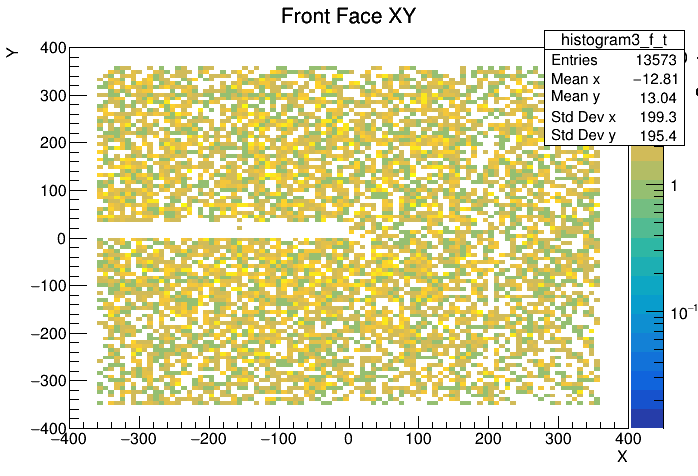
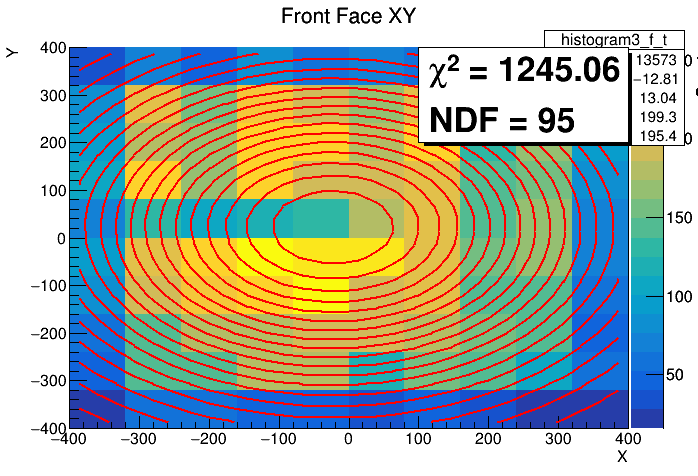
working histograms with the time cut and all data for the front face. They also all have gaussian fits and chi^2/degree of freedom calculations.

diff --git a/CRT_Dataset2/AllDataTimeCut.C b/CRT_Dataset2/AllDataTimeCut.C
@@ -4,14 +4,113 @@
 #include "TH2F.h"
 #include "TCanvas.h"
 #include <iostream>
+#include "TF1.h"
+#include <vector>
+#include <cmath>
+#include <numeric>
+#include <algorithm>
+#include "TPaveText.h"
+#include "TF2.h"
 
+
+double gaussian(double *x, double *par) {
+	double arg = (x[0] - par[1]) / par[2];
+    	return par[0] * exp(-0.5 * arg * arg);
+}
+
+double gaussian2D(double *x, double *par) {
+	double argX = (x[0] - par[1]) / par[2];
+    	double argY = (x[1] - par[3]) / par[4];
+    	return par[0] * exp(-0.5 * (argX * argX + argY * argY));
+}
+
+
+double calculate_mean(const std::vector<double>& data) {
+	return std::accumulate(data.begin(), data.end(), 0.0) / data.size();
+}
+double calculate_stddev(const std::vector<double>& data, double mean) {
+	double sum = 0.0;
+    	for (double value : data) {
+        	sum += (value - mean) * (value - mean);
+    	}
+    	return sqrt(sum / data.size());
+}
+
+void fit_gaussian1D(TH1F* histogram) {
+	int n_bins = histogram->GetNbinsX();
+    	std::vector<double> data;
+    	for (int i = 1; i <= n_bins; ++i) {
+        	int bin_count = histogram->GetBinContent(i);
+        	double bin_center = histogram->GetBinCenter(i);
+        	for (int j = 0; j < bin_count; ++j) {
+            		data.push_back(bin_center);
+        	}
+    	}	
+	double mean = calculate_mean(data);
+    	double stddev = calculate_stddev(data, mean);
+
+    	TF1 *fit_func = new TF1("fit_func", gaussian, histogram->GetXaxis()->GetXmin(), histogram->GetXaxis()->GetXmax(), 3);
+    	fit_func->SetParameters(histogram->GetMaximum(), mean, stddev);
+    	histogram->Fit(fit_func, "R");
+	
+	double chi2 = fit_func->GetChisquare();
+    	int ndf = fit_func->GetNDF();
+
+	TPaveText *pt = new TPaveText(0.6, 0.7, 0.9, 0.9, "NDC");
+    	pt->SetFillColor(0);
+    	pt->SetTextAlign(12);
+    	pt->AddText(Form("#chi^{2} = %.2f", chi2));
+    	pt->AddText(Form("NDF = %d", ndf));
+    	pt->Draw();
+
+    	histogram->GetListOfFunctions()->Add(pt);
+}
+
+void fit_gaussian2D(TH2F* histogram) {
+	int n_binsX = histogram->GetNbinsX();
+    	int n_binsY = histogram->GetNbinsY();
+    	std::vector<double> dataX;
+    	std::vector<double> dataY;
+    	for (int i = 1; i <= n_binsX; ++i) {
+        	for (int j = 1; j <= n_binsY; ++j) {
+            		int bin_count = histogram->GetBinContent(i, j);
+            		double bin_centerX = histogram->GetXaxis()->GetBinCenter(i);
+            		double bin_centerY = histogram->GetYaxis()->GetBinCenter(j);
+            		for (int k = 0; k < bin_count; ++k) {
+                		dataX.push_back(bin_centerX);
+                		dataY.push_back(bin_centerY);
+            		}
+        	}
+    	}
+
+	double meanX = calculate_mean(dataX);
+    	double meanY = calculate_mean(dataY);
+    	double stddevX = calculate_stddev(dataX, meanX);
+    	double stddevY = calculate_stddev(dataY, meanY);
+
+    	TF2 *fit_func = new TF2("fit_func", gaussian2D, histogram->GetXaxis()->GetXmin(), histogram->GetXaxis()->GetXmax(), histogram->GetYaxis()->GetXmin(), histogram->GetYaxis()->GetXmax(), 5);
+    	fit_func->SetParameters(histogram->GetMaximum(), meanX, stddevX, meanY, stddevY);
+    	histogram->Fit(fit_func, "R");
+
+    	double chi2 = fit_func->GetChisquare();
+    	int ndf = fit_func->GetNDF();
+
+	TPaveText *pt = new TPaveText(0.6, 0.7, 0.9, 0.9, "NDC");
+    	pt->SetFillColor(0);
+    	pt->SetTextAlign(12);
+    	pt->AddText(Form("#chi^{2} = %.2f", chi2));
+    	pt->AddText(Form("NDF = %d", ndf));
+    	pt->Draw();
+
+    	histogram->GetListOfFunctions()->Add(pt);
+}
 void AllDataTimeCut() {
 	TChain chain("crtana/tree"); // Ensure "myTree" is the correct name of your TTree
 	chain.Add("/pnfs/sbnd/persistent/users/hlay/crt_comm_summer_2024/run13*_crtana.root"); // Replace with your file path pattern
-	TH1F *histogram1_f_t = new TH1F("histogram1_f_t", "Front Face X;X;Counts", 100, -400, 400);
-	TH1F *histogram2_f_t = new TH1F("histogram2_f_t", "Front Face Y;Y;Counts", 100, -400, 400);
-	TH1F *histogram4_f_t = new TH1F("histogram4_f_t", "Time", 100, 1520e3 , 1540e3);
-	TH2F *histogram3_f_t = new TH2F("histogram3_f_t", "Front Face XY;X;Y;Counts", 100, -400, 400, 100, -400, 400);
+	TH1F *histogram1_f_t = new TH1F("histogram1_f_t", "Front Face X;X;Counts", 10, -400, 400);
+	TH1F *histogram2_f_t = new TH1F("histogram2_f_t", "Front Face Y;Y;Counts", 10, -400, 400);
+	TH1F *histogram4_f_t = new TH1F("histogram4_f_t", "Time", 10, 1520e3 , 1540e3);
+	TH2F *histogram3_f_t = new TH2F("histogram3_f_t", "Front Face XY;X;Y;Counts", 10, -400, 400, 10, -400, 400);
     	TCanvas *c1_f_t = new TCanvas("c1_f_t", "Front Face X");
 	TCanvas *c2_f_t = new TCanvas("c2_f_t", "Front Face Y");
 	TCanvas *c3_f_t = new TCanvas("c3_f_t", "Front Face XY");
@@ -62,11 +161,13 @@ void AllDataTimeCut() {
 
 	c1_f_t->cd();
     	histogram1_f_t->Draw();
+	fit_gaussian1D(histogram1_f_t);
     	c2_f_t->cd();
     	histogram2_f_t->Draw();
+	fit_gaussian1D(histogram2_f_t);
     	c3_f_t->cd();
-    	c3_f_t->SetLogz();
-    	histogram3_f_t->Draw("COLZ");	
+    	histogram3_f_t->Draw("COLZ");
+	fit_gaussian2D(histogram3_f_t);	
 	c4_f_t->cd();
 	histogram4_f_t->Draw();
 
